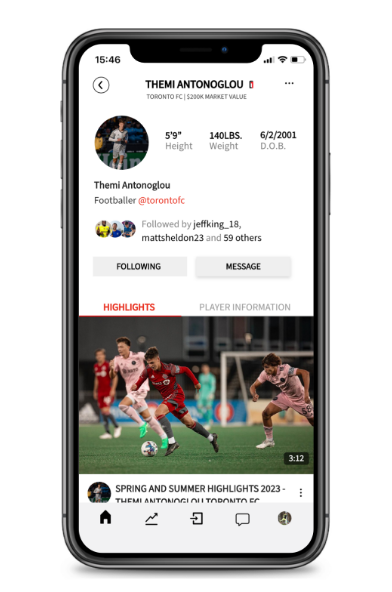
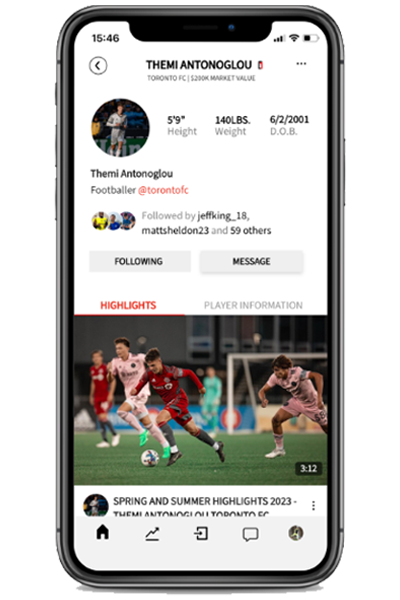
added home page phone images

diff --git a/components/home/NextLevel.jsx b/components/home/NextLevel.jsx
@@ -1,0 +1,50 @@
+export default function NextLevel() {
+    return (
+
+<div className="content">
+ 
+            <div className="title d-flex row my-4">
+                <div className="col-lg-6 col-12 my-3 text-center text-lg-start">
+                    <h1 className="ms-lg-5 ps-lg-5 title-text">EVERYTHING YOU NEED TO REACH YOUR NEXT LEVEL</h1>
+                </div>
+
+
+
+            </div>
+
+            <div className="row my-5 mx-5 px-2 flex justify-content-between">
+
+                <div className="col-lg-3 col-12 d-flex flex-column">
+
+                    <img src="/assets/images/home/app2.png" alt="" />
+                    <h3 className="heavy-font text-center my-3">ATHLETES</h3>
+                    <p className="text-center">Create a custom recruitment profile to send to coaches and gain exposure from our Network.</p>
+
+
+
+
+                </div>
+
+                <div className="col-lg-3 col-12 d-flex flex-column">
+                     <img src="/assets/images/home/app3.png" alt="" />
+                      <h3 className="heavy-font text-center my-3">COACHES</h3>
+                    <p className="text-center">Pick players based on your needs, level, and OPSM tailored recommendations.</p>
+                    
+                </div>
+
+                <div className="col-lg-3 col-12 d-flex flex-column">
+                     <img src="/assets/images/home/app4.png" alt="" />
+                      <h3 className="heavy-font text-center my-3">CLUBS</h3>
+                    <p className="text-center">Lay a proven pathway for your players to get recruited at the college or professional level.</p>
+                    
+                </div>
+
+
+            </div>
+
+            </div>
+
+
+        
+    );
+}

diff --git a/components/home/Empowering.jsx b/components/home/Empowering.jsx
@@ -1,0 +1,25 @@
+export default function Empowering() {
+    return (
+        <div className="empowering  d-flex flex-row row my-lg-5 ">
+            <div className="col-12 col-lg-6 d-flex flex-column">
+
+                <div className="text ms-lg-5 ps-lg-5 px-3 my-4 py-3 text-center text-lg-start">
+
+                <h1 className="my-3 text-bold spaced-text">Empowering players and coaches with metric-based recruitment decisions.</h1>
+
+                <p className="font-rem-15">With just a click, share your profile with our trusted network of thousands of coaches and scouts and receive that career push you’ve always dreamed of. 
+            </p>
+                </div>
+
+            </div>
+
+            <div className="col-12 col-lg-6 d-flex flex-row align-items-center justify-content-center ">
+
+                <img style={{height:"100%"}} className="img-fluid" src="/assets/images/home/app1.png" alt="" />
+                
+            </div>
+
+
+            </div>
+    );
+}

diff --git a/src/app/page.js b/src/app/page.js
@@ -2,12 +2,16 @@ import Hero from "../../components/home/Hero";
 import Header from "../../components/header/Header";
 import WhatWeDo from "../../components/home/WhatWeDo";
 import Footer from "../../components/footer/Footer";
+import Empowering from "../../components/home/Empowering";
+import NextLevel from "../../components/home/NextLevel";
 export default function Home() {
   return (
     <div>
       <Header />
       <Hero />
       <WhatWeDo className="my-4" />
+      <Empowering />
+      <NextLevel />
       <Footer />
       
     </div>

diff --git a/components/home/WhatWeDo.jsx b/components/home/WhatWeDo.jsx
@@ -51,7 +51,7 @@ const [mobile, setMobile] = useState(false)
 
   return (
    
-    <div className="ml-lg-5 my-4 pt-2">
+    <div className="ml-lg-5 my-4 pt-2 pb-5">
         <div className="container my-5">
            <div className="row">
             <div className="col-lg-6 col-12 d-flex justify-content-center flex-column align-items-center ">

diff --git a/styles/globals.css b/styles/globals.css
@@ -45,7 +45,7 @@
   width: 50px;
 }
 
-.font-rem {
+.font-rem-3 {
   font-family: "Source Sans Pro";
   font-size: 3rem;
   font-weight: 400;
@@ -117,4 +117,8 @@
 input.transparent-input {
   background-color: transparent !important;
   border: #707070 1px solid;
+}
+
+.spaced-text {
+  letter-spacing: 1px !important;
 }
